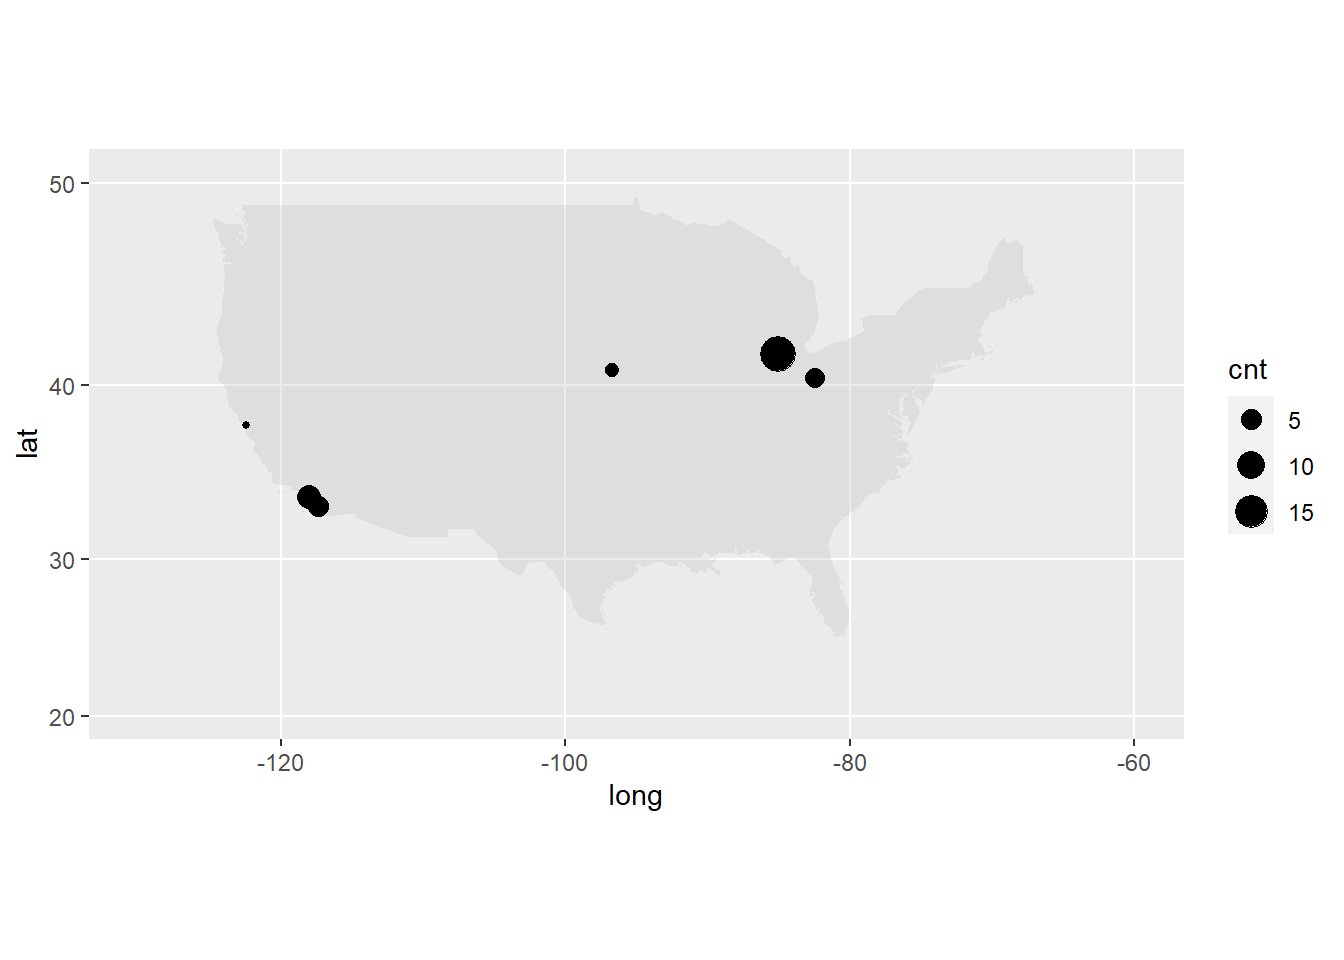
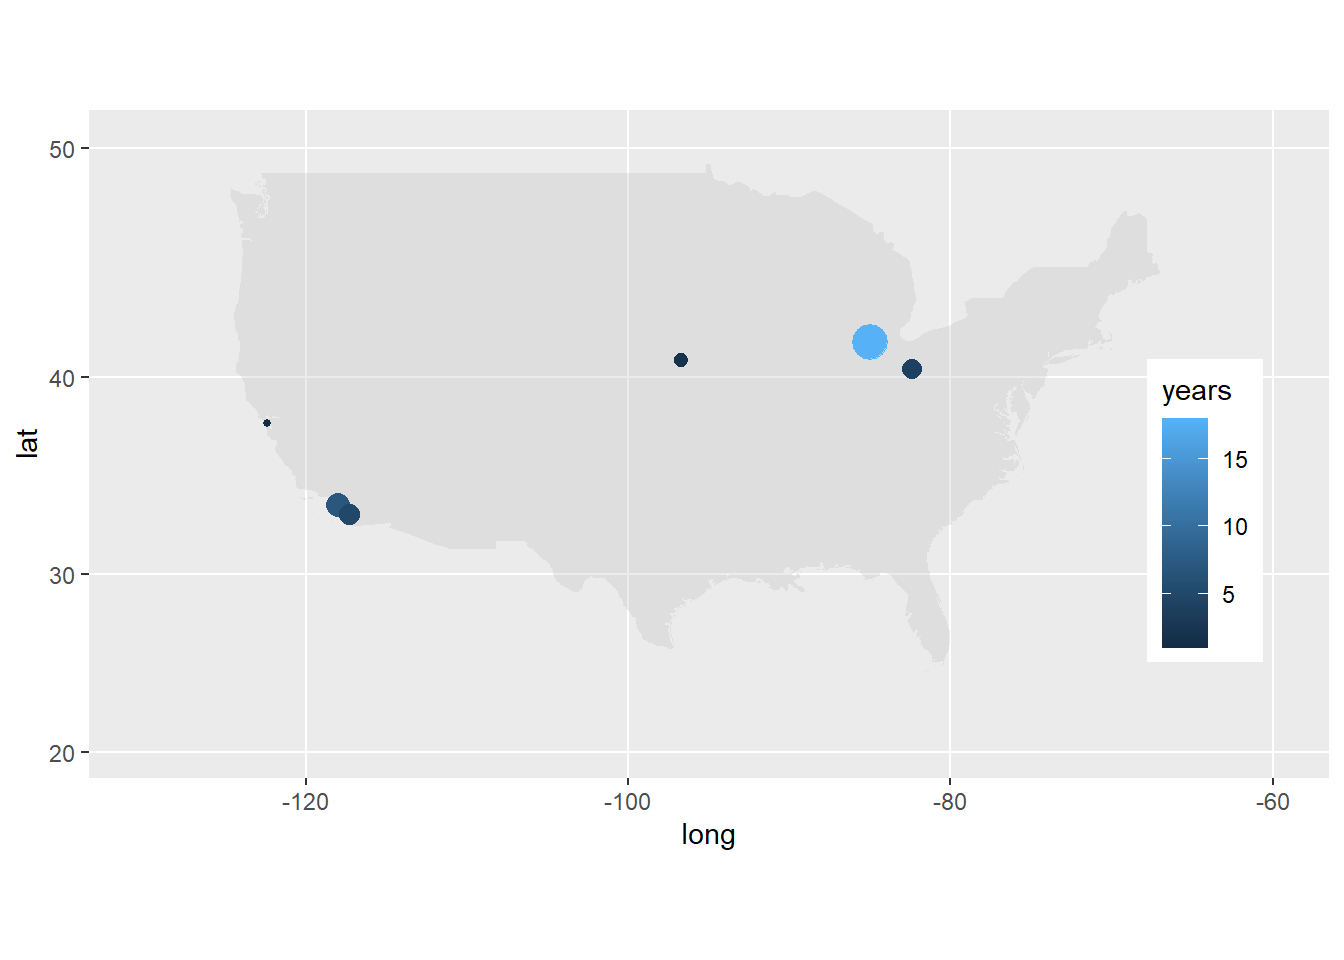
Fixing up places lived chart to supress warnings and show the correct legend.

diff --git a/about.html b/about.html
@@ -316,32 +316,20 @@ $(document).ready(function () {
 <p>Greetings everyone and welcome to my about page. For starters, i’m a newly graduated data scientist who’s actively seeking employment. Feel free to reach out with any opportunities.</p>
 <div id="where-ive-lived." class="section level2">
 <h2>Where I’ve lived.</h2>
-<pre class="r"><code>library(tidyverse)</code></pre>
-<pre><code>## -- Attaching packages ------------------------------------------------- tidyverse 1.3.0 --</code></pre>
-<pre><code>## v ggplot2 3.3.0     v purrr   0.3.4
-## v tibble  3.0.1     v dplyr   0.8.5
-## v tidyr   1.0.2     v stringr 1.4.0
-## v readr   1.3.1     v forcats 0.5.0</code></pre>
-<pre><code>## -- Conflicts ---------------------------------------------------- tidyverse_conflicts() --
-## x dplyr::filter() masks stats::filter()
-## x dplyr::lag()    masks stats::lag()</code></pre>
-<pre class="r"><code>library(ggplot2)
-library(dplyr)
-library(mapproj)</code></pre>
-<pre><code>## Loading required package: maps</code></pre>
-<pre><code>## 
-## Attaching package: &#39;maps&#39;</code></pre>
-<pre><code>## The following object is masked from &#39;package:purrr&#39;:
-## 
-##     map</code></pre>
-<pre class="r"><code>df &lt;- read.csv(&#39;https://raw.githubusercontent.com/Landcruiser87/Andy_Heroy_Data_Science/gh-pages/data/Livingspaces.csv&#39;)
+<pre class="r"><code>shhhh &lt;- suppressPackageStartupMessages
+
+shhhh(library(tidyverse))
+shhhh(library(ggplot2))
+shhhh(library(dplyr))
+shhhh(library(mapproj))
+df &lt;- read.csv(&#39;https://raw.githubusercontent.com/Landcruiser87/Andy_Heroy_Data_Science/gh-pages/data/Livingspaces.csv&#39;)
 
 colnames(df) &lt;- c(&quot;Place&quot;,&quot;City&quot;,&quot;State&quot;,&quot;Lat&quot;,&quot;Long&quot;,&quot;Year&quot;,&quot;cnt&quot;)
 
 US &lt;- map_data(&quot;world&quot;) %&gt;% filter(region==&quot;USA&quot;)
 
 ggplot() + 
-  geom_polygon(data = US, aes(x=long, y = lat, group = group), fill=&quot;grey&quot;, alpha=0.3) + geom_point(data=df, aes(x=Long, y=Lat,size=cnt)) + coord_map() + ylim(20,50)+xlim(-130,-60)</code></pre>
+  geom_polygon(data = US, aes(x=long, y = lat, group = group), fill=&quot;grey&quot;, alpha=0.3) + geom_point(data=df, aes(x=Long, y=Lat, size=cnt, color=cnt)) + coord_map() + ylim(20,50) + xlim(-130,-60) + labs(color=&quot;years&quot;) + scale_size_continuous(guide = FALSE) + theme(legend.position = c(0.9,0.4))</code></pre>
 <p><img src="about_files/figure-html/PlacesLived-1.png" width="672" /></p>
 </div>
 <div id="things-that-peak-my-interesttake-up-my-time." class="section level2">
